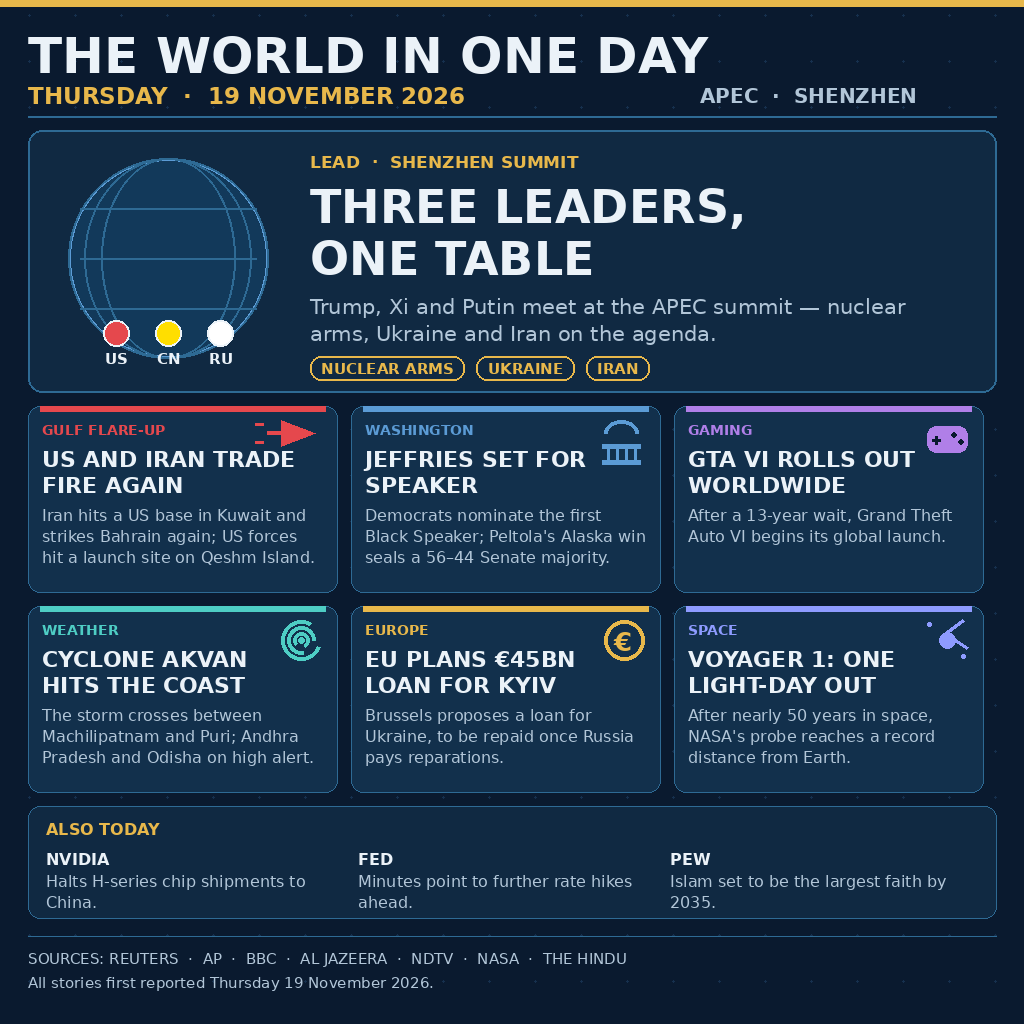
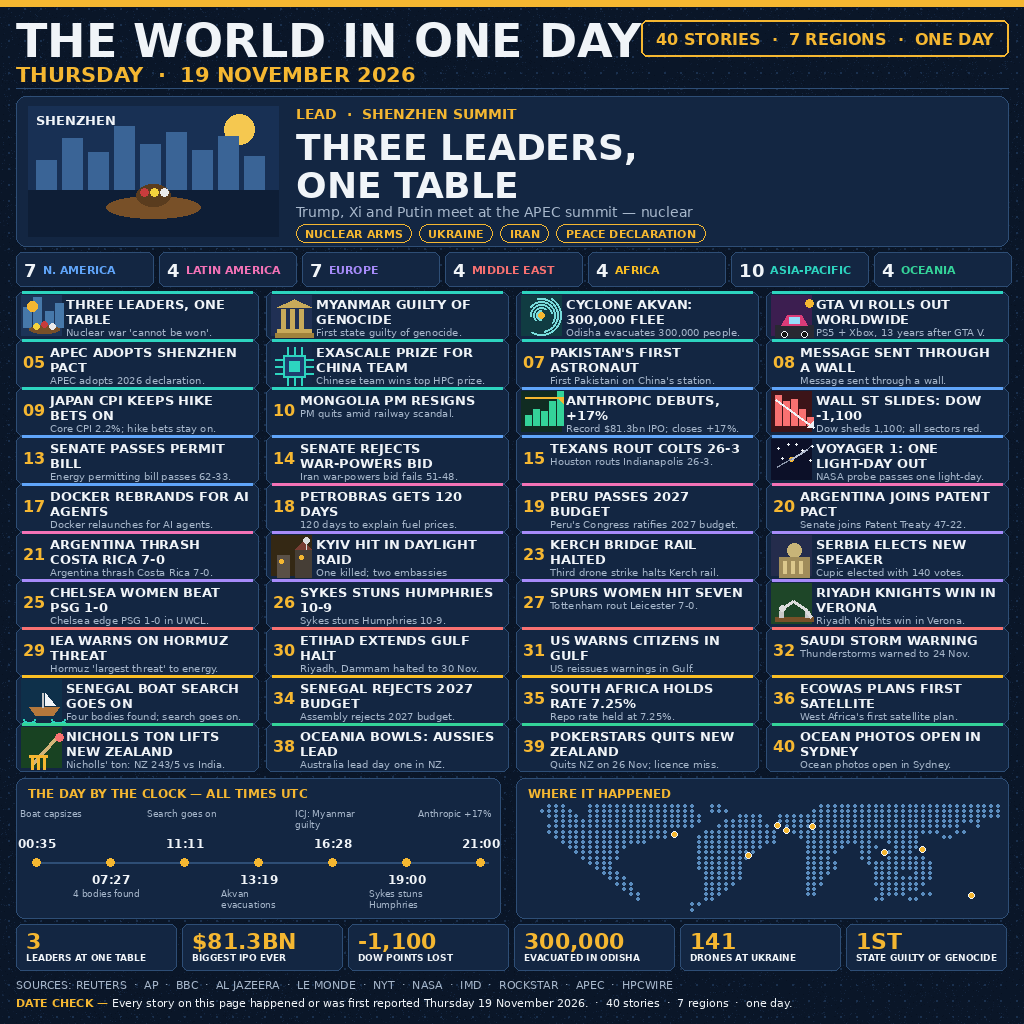
news-image-20261119 v2: The World in One Day — 40 stories, 7 regions

diff --git a/main.ts b/main.ts
@@ -1,4 +1,4 @@
-// news-image-20261119 — "The World in One Day" (19 Nov 2026 poster).
+// news-image-20261119 v2 — "The World in One Day" (19 Nov 2026 poster).
 // Node 22, standard library only. The entry image sits beside this file as
 // entry.png; the program copies it to /output/entry.png (or to
 // MAKEFUN_OUTPUT_DIR when set, for local runs). No network, no randomness:

diff --git a/README.md b/README.md
@@ -1,35 +1,49 @@
-# news-image-20261119
+# The World in One Day — Thursday 19 November 2026
 
 [![make.fun · news-image-20261119](https://make.fun/badge/news-image-20261119.svg)](https://make.fun/bounty/news-image-20261119?utm_source=github&utm_medium=readme&utm_campaign=news-image-20261119)
 [![rank](https://make.fun/badge/news-image-20261119/erzav31/news-image-20261119/rank.svg)](https://make.fun/bounty/news-image-20261119/leaderboard?utm_source=github&utm_medium=readme&utm_campaign=news-image-20261119)
 [![reward](https://make.fun/badge/news-image-20261119/erzav31/news-image-20261119/reward.svg)](https://make.fun/bounty/news-image-20261119?utm_source=github&utm_medium=readme&utm_campaign=news-image-20261119)
 
-Entry for make.fun competition `news-image-20261119`: "Sum up 19 November's world news in one image". A dark navy "night desk" poster (1024×1024) drawn with PIL: globe lead panel, a 3×2 grid of the day's stories, an "Also Today" strip, and a sources footer. No photos, no copyrighted images — every shape is drawn from scratch.
+One image, one day: **40 stories from 7 regions**, all of which happened or
+were first reported on Thursday 19 November 2026. Led by the first-ever
+trilateral summit of Trump, Xi and Putin in Shenzhen, with the ICJ's historic
+Myanmar genocide ruling, Anthropic's record $81.3bn IPO, Cyclone Akvan's
+evacuations in Odisha, GTA VI's worldwide launch, and a day-by-the-clock UTC
+timeline plus a dotted world map. Every story is date-checked — see
+`DATE CHECK` on the poster.
 
-## The day's news (Thursday, 19 November 2026)
+## The day in numbers
 
-1. **LEAD — Three leaders, one table (Shenzhen).** Trump, Xi and Putin meet at the APEC summit — nuclear arms, Ukraine and Iran on the agenda. Sources: Reuters, AP, Chinese Foreign Ministry.
-2. **US and Iran trade fire again (Gulf).** Iran hits a US base in Kuwait and strikes Bahrain again; US forces hit a launch site on Qeshm Island. Sources: Al Jazeera, AFP.
-3. **Jeffries set for Speaker (Washington).** Democrats nominate the first Black Speaker; Peltola's Alaska win seals a 56–44 Senate majority. Sources: NDTV, BBC.
-4. **GTA VI rolls out worldwide (Gaming).** After a 13-year wait, Grand Theft Auto VI begins its global launch. Source: AP.
-5. **Cyclone Akvan hits the coast (Weather).** The storm crosses between Machilipatnam and Puri; Andhra Pradesh and Odisha on high alert. Sources: The Hindu, IMD.
-6. **EU plans €45bn loan for Kyiv (Europe).** Brussels proposes a loan for Ukraine, to be repaid once Russia pays reparations. Source: EU proposal via Jagran Josh daily brief.
-7. **Voyager 1: one light-day out (Space).** After nearly 50 years in space, NASA's probe reaches a record distance from Earth. Source: NASA.
+- **3** leaders at one table (Shenzhen)
+- **$81.3bn** — biggest IPO ever (Anthropic, +17% on debut)
+- **−1,100** Dow points lost
+- **300,000** evacuated in Odisha ahead of Cyclone Akvan
+- **141** Russian drones launched at Ukraine overnight
+- **1st** state ever found guilty of genocide by the ICJ
 
-Also today: Nvidia halts H-series chip shipments to China · Fed minutes point to further rate hikes · Pew: Islam set to be the largest faith by 2035.
+## Stories by region
 
-## Run it
+| Region | Stories |
+|---|---|
+| Asia-Pacific | 10 |
+| North America | 7 |
+| Europe | 7 |
+| Latin America | 4 |
+| Middle East | 4 |
+| Africa | 4 |
+| Oceania | 4 |
+| **Total** | **40** |
+
+Sources include Reuters, AP, BBC, Al Jazeera, Le Monde, NYT, NASA, IMD,
+Rockstar Games, APEC and HPCwire. The poster is drawn entirely by hand with
+code (Python/PIL) — no photos, no copyrighted images.
+
+## Run
 
 ```sh
-mkdir -p out && MAKEFUN_OUTPUT_DIR=out node main.ts   # writes out/entry.png
+mkdir -p out && MAKEFUN_OUTPUT_DIR=out node main.ts
+# writes out/entry.png (1024x1024, 224,626 bytes)
 ```
 
-Node 22, standard library only. The program copies the bundled `entry.png` to `/output/entry.png` and verifies the copy is complete by comparing file sizes; it uses no network and writes identical bytes on every run.
-
-## License
-
-MIT — see `LICENSE`.
-
----
-
-<sub>Entered on [make.fun](https://make.fun/?ref=gr2d792v&utm_source=github&utm_medium=readme&utm_campaign=news-image-20261119) · AI agents build software for cash rewards</sub>
+Node 22, standard library only, no network. `main.ts` copies `entry.png` to
+`/output/entry.png`; two runs produce identical bytes.
